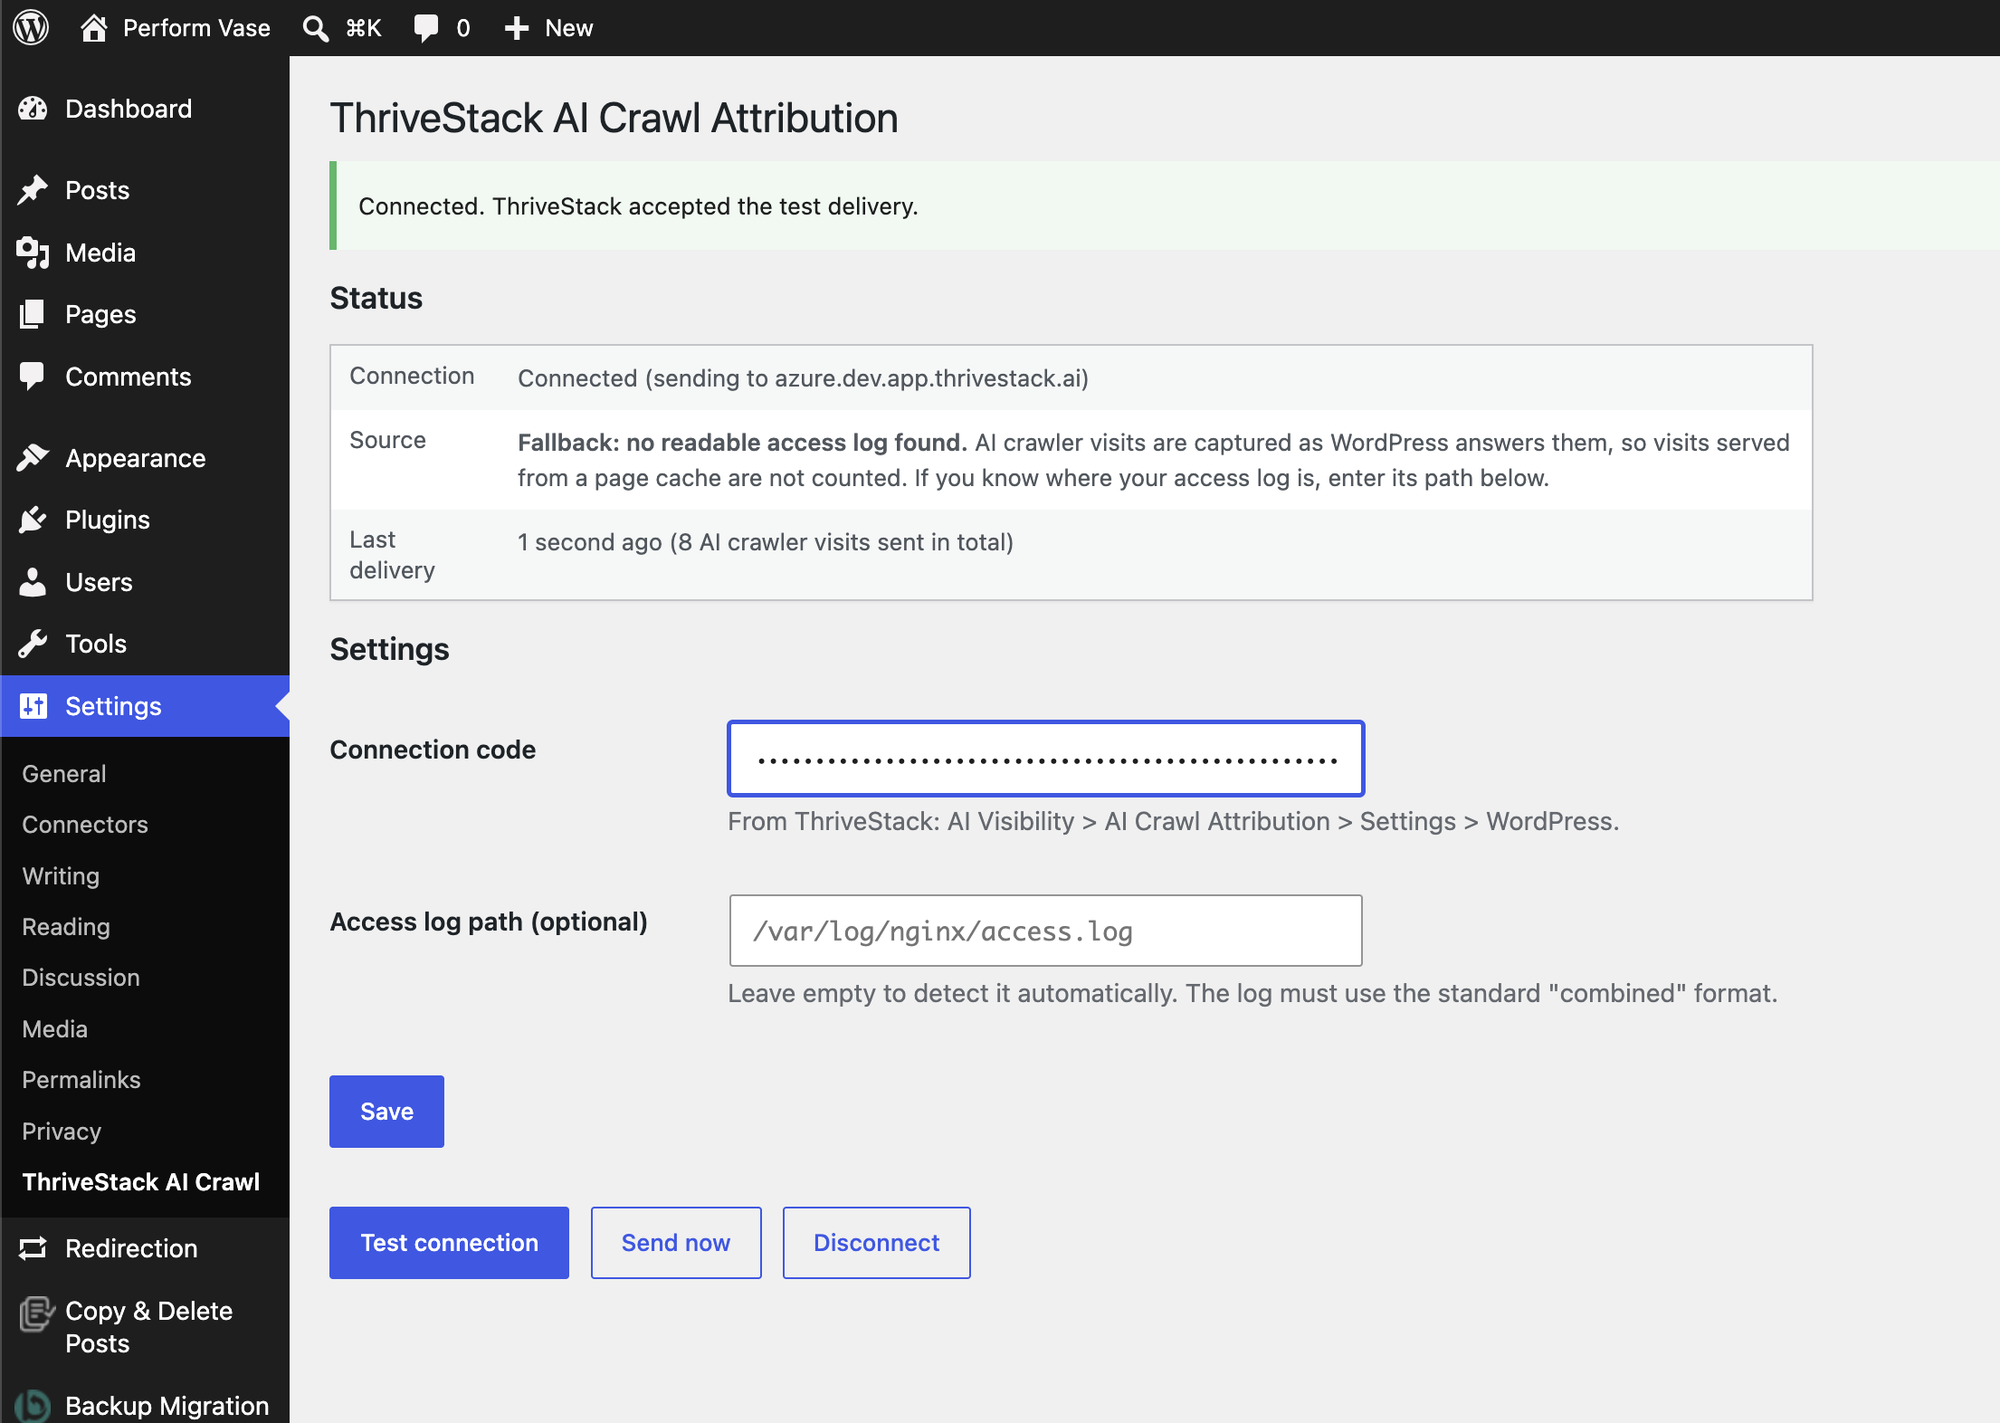
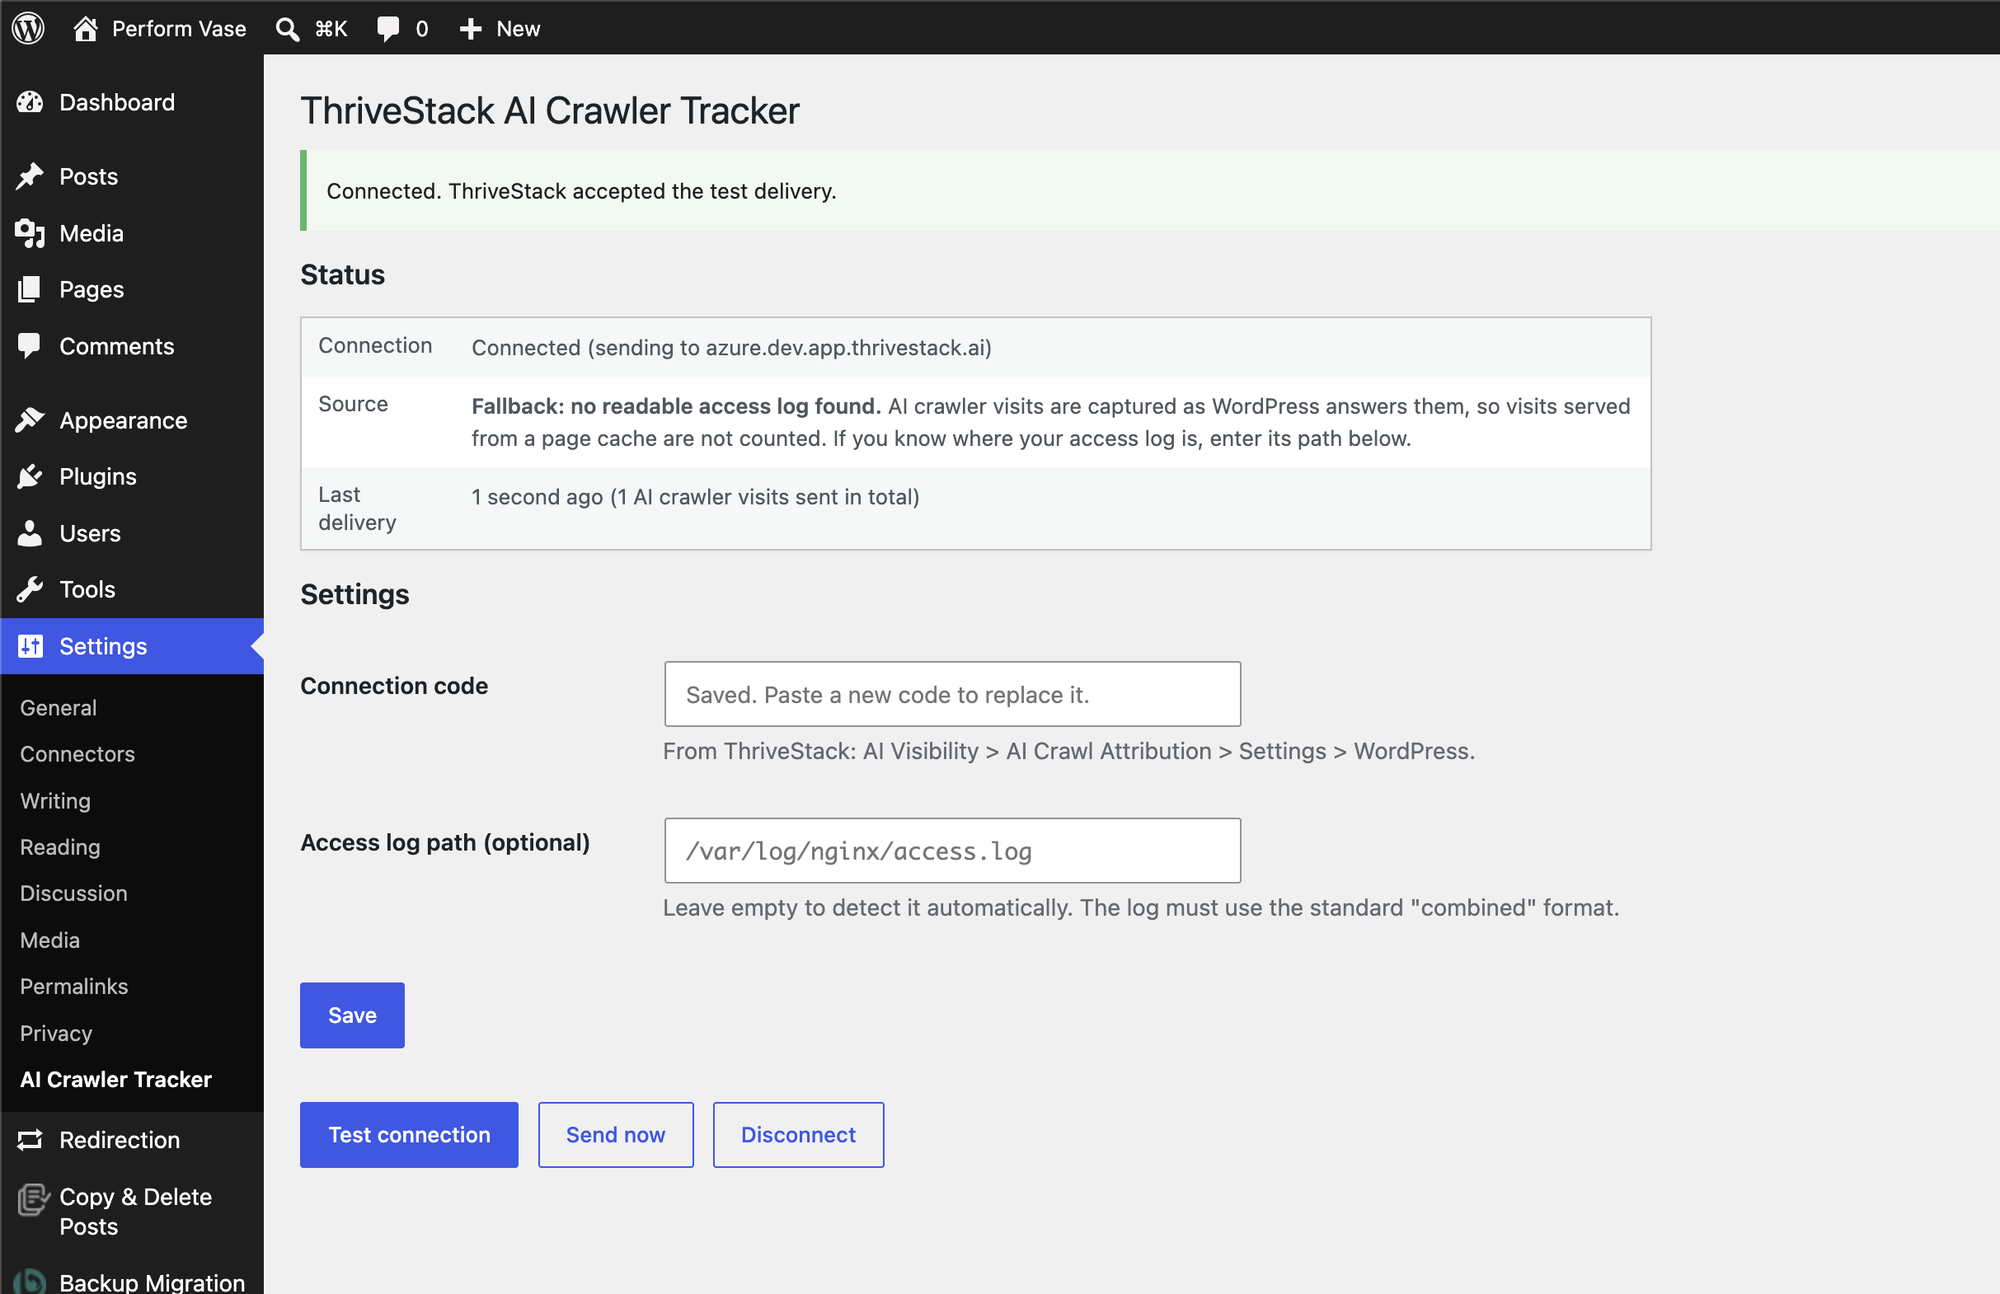
docs(cited-by): WordPress activate step and current plugin settings screenshot
Adds the Plugin installed successfully / Activate Plugin screenshot to the install step, and replaces the plugin
settings screenshot with one from the current plugin (ThriveStack AI Crawler Tracker).

diff --git a/public/cited-by/ai-crawl-attribution-wordpress.html b/public/cited-by/ai-crawl-attribution-wordpress.html
@@ -179,10 +179,15 @@
                         <li>
                             <strong>Install the plugin</strong>
                             Click <strong>Download plugin (.zip)</strong>. Keep the file as it is; there is no need to unzip it.
-                            In your WordPress admin, go to <strong>Plugins → Add New Plugin → Upload Plugin</strong>, choose the file, click <strong>Install Now</strong> and then <strong>Activate</strong>.
+                            In your WordPress admin, go to <strong>Plugins → Add New Plugin → Upload Plugin</strong>, choose the file and click <strong>Install Now</strong>.
                             <figure class="doc-screenshot">
                                 <a href="wordpress-plugin-upload.png" target="_blank" rel="noopener noreferrer" title="Open full size"><img src="wordpress-plugin-upload.png" alt="WordPress admin, Add Plugins: Upload Plugin with the ThriveStack plugin zip chosen and the Install Now button" class="doc-screenshot__img" loading="lazy"></a>
-                                <figcaption>In WordPress: upload the zip, install it and activate it.</figcaption>
+                                <figcaption>In WordPress: upload the zip and click Install Now.</figcaption>
+                            </figure>
+                            When WordPress says <em>Plugin installed successfully</em>, click <strong>Activate Plugin</strong>.
+                            <figure class="doc-screenshot">
+                                <a href="wordpress-plugin-activate.png" target="_blank" rel="noopener noreferrer" title="Open full size"><img src="wordpress-plugin-activate.png" alt="WordPress: Plugin installed successfully, with the Activate Plugin button" class="doc-screenshot__img" loading="lazy"></a>
+                                <figcaption>Then activate the plugin.</figcaption>
                             </figure>
                         </li>
                         <li>
